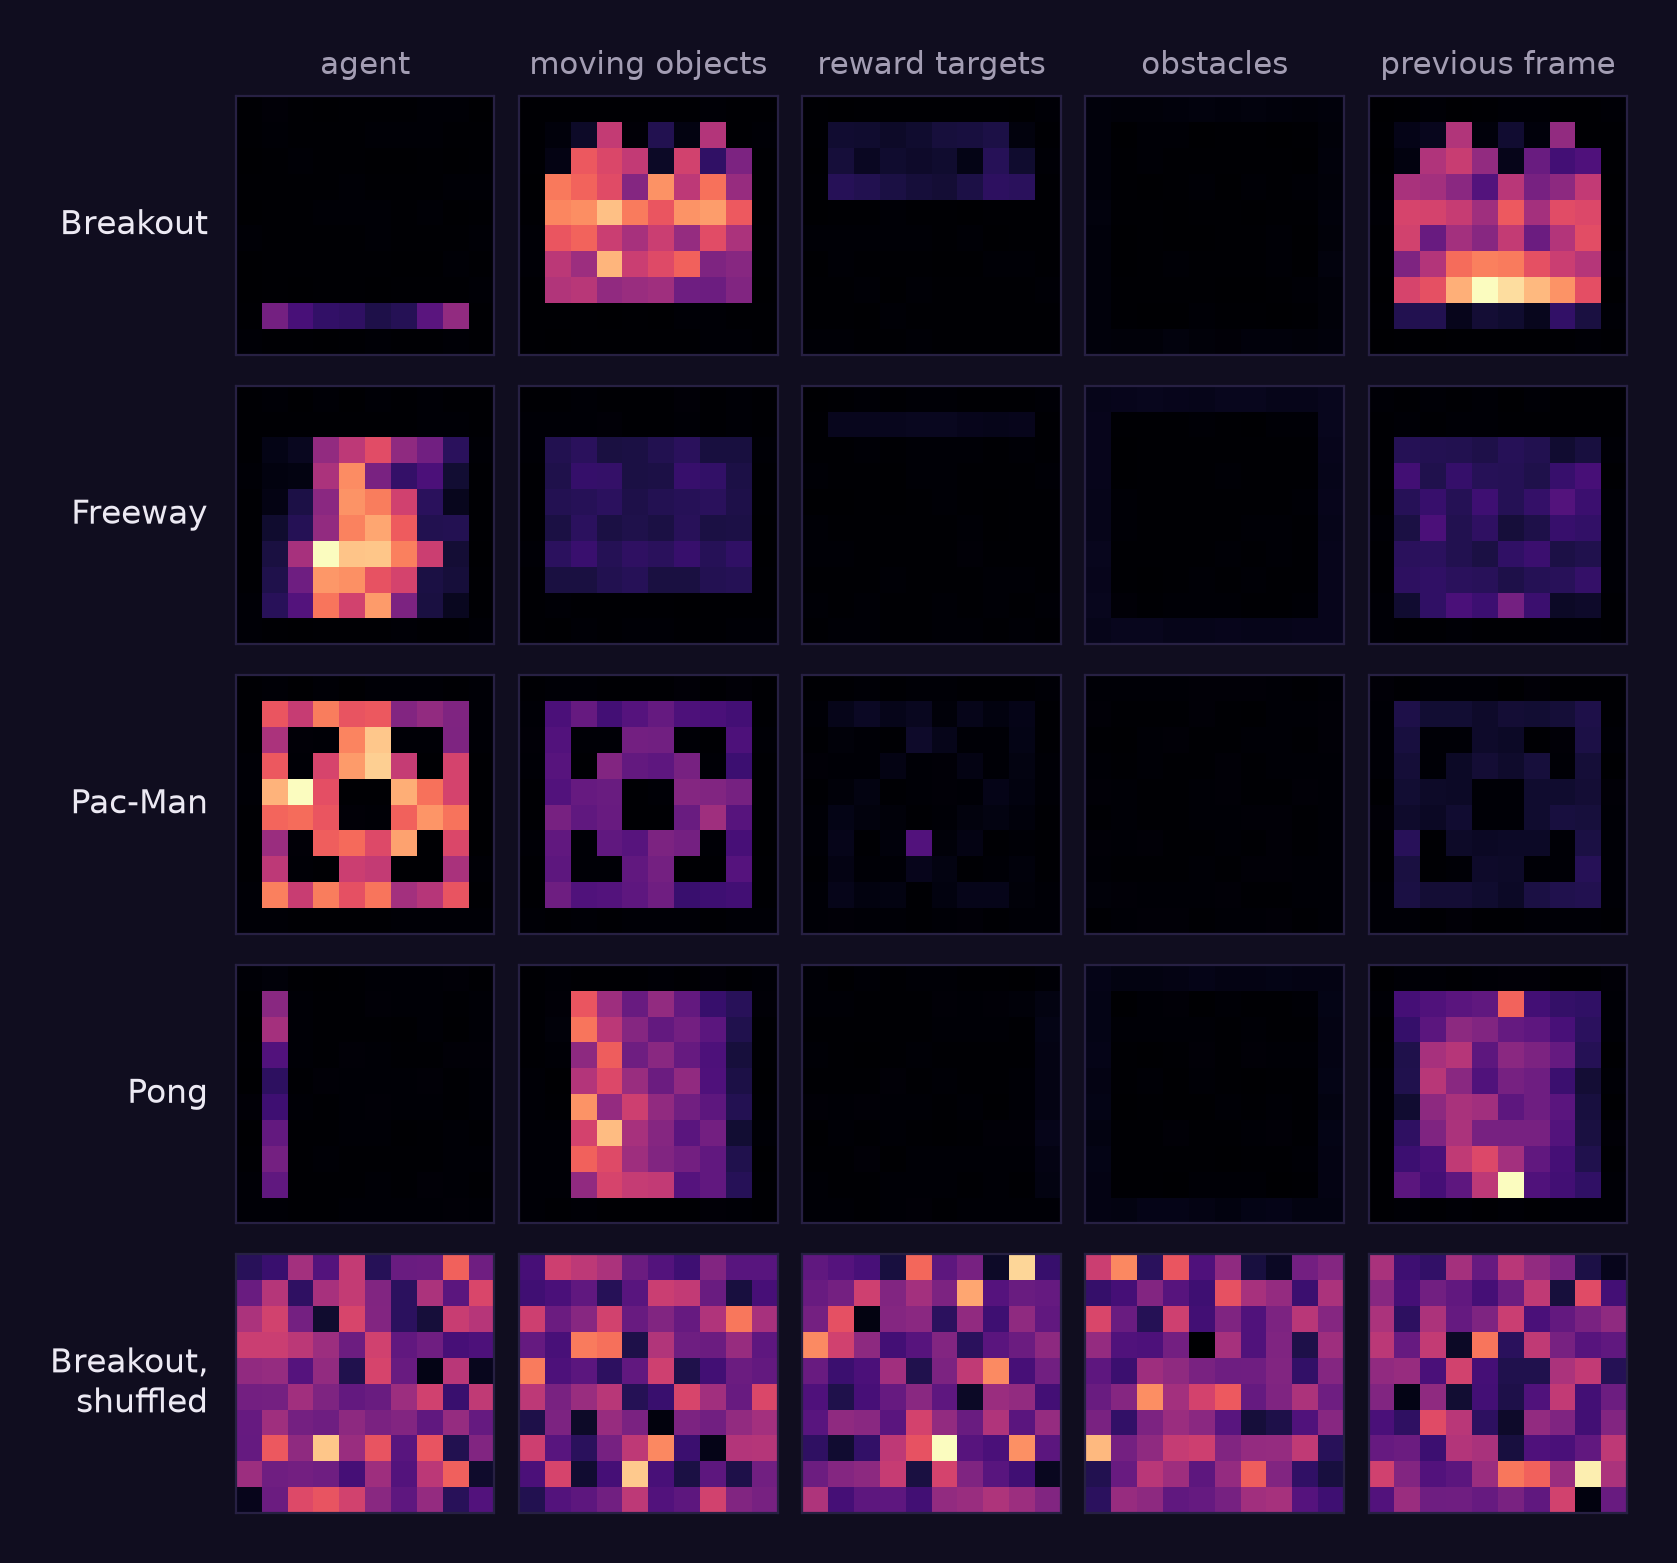
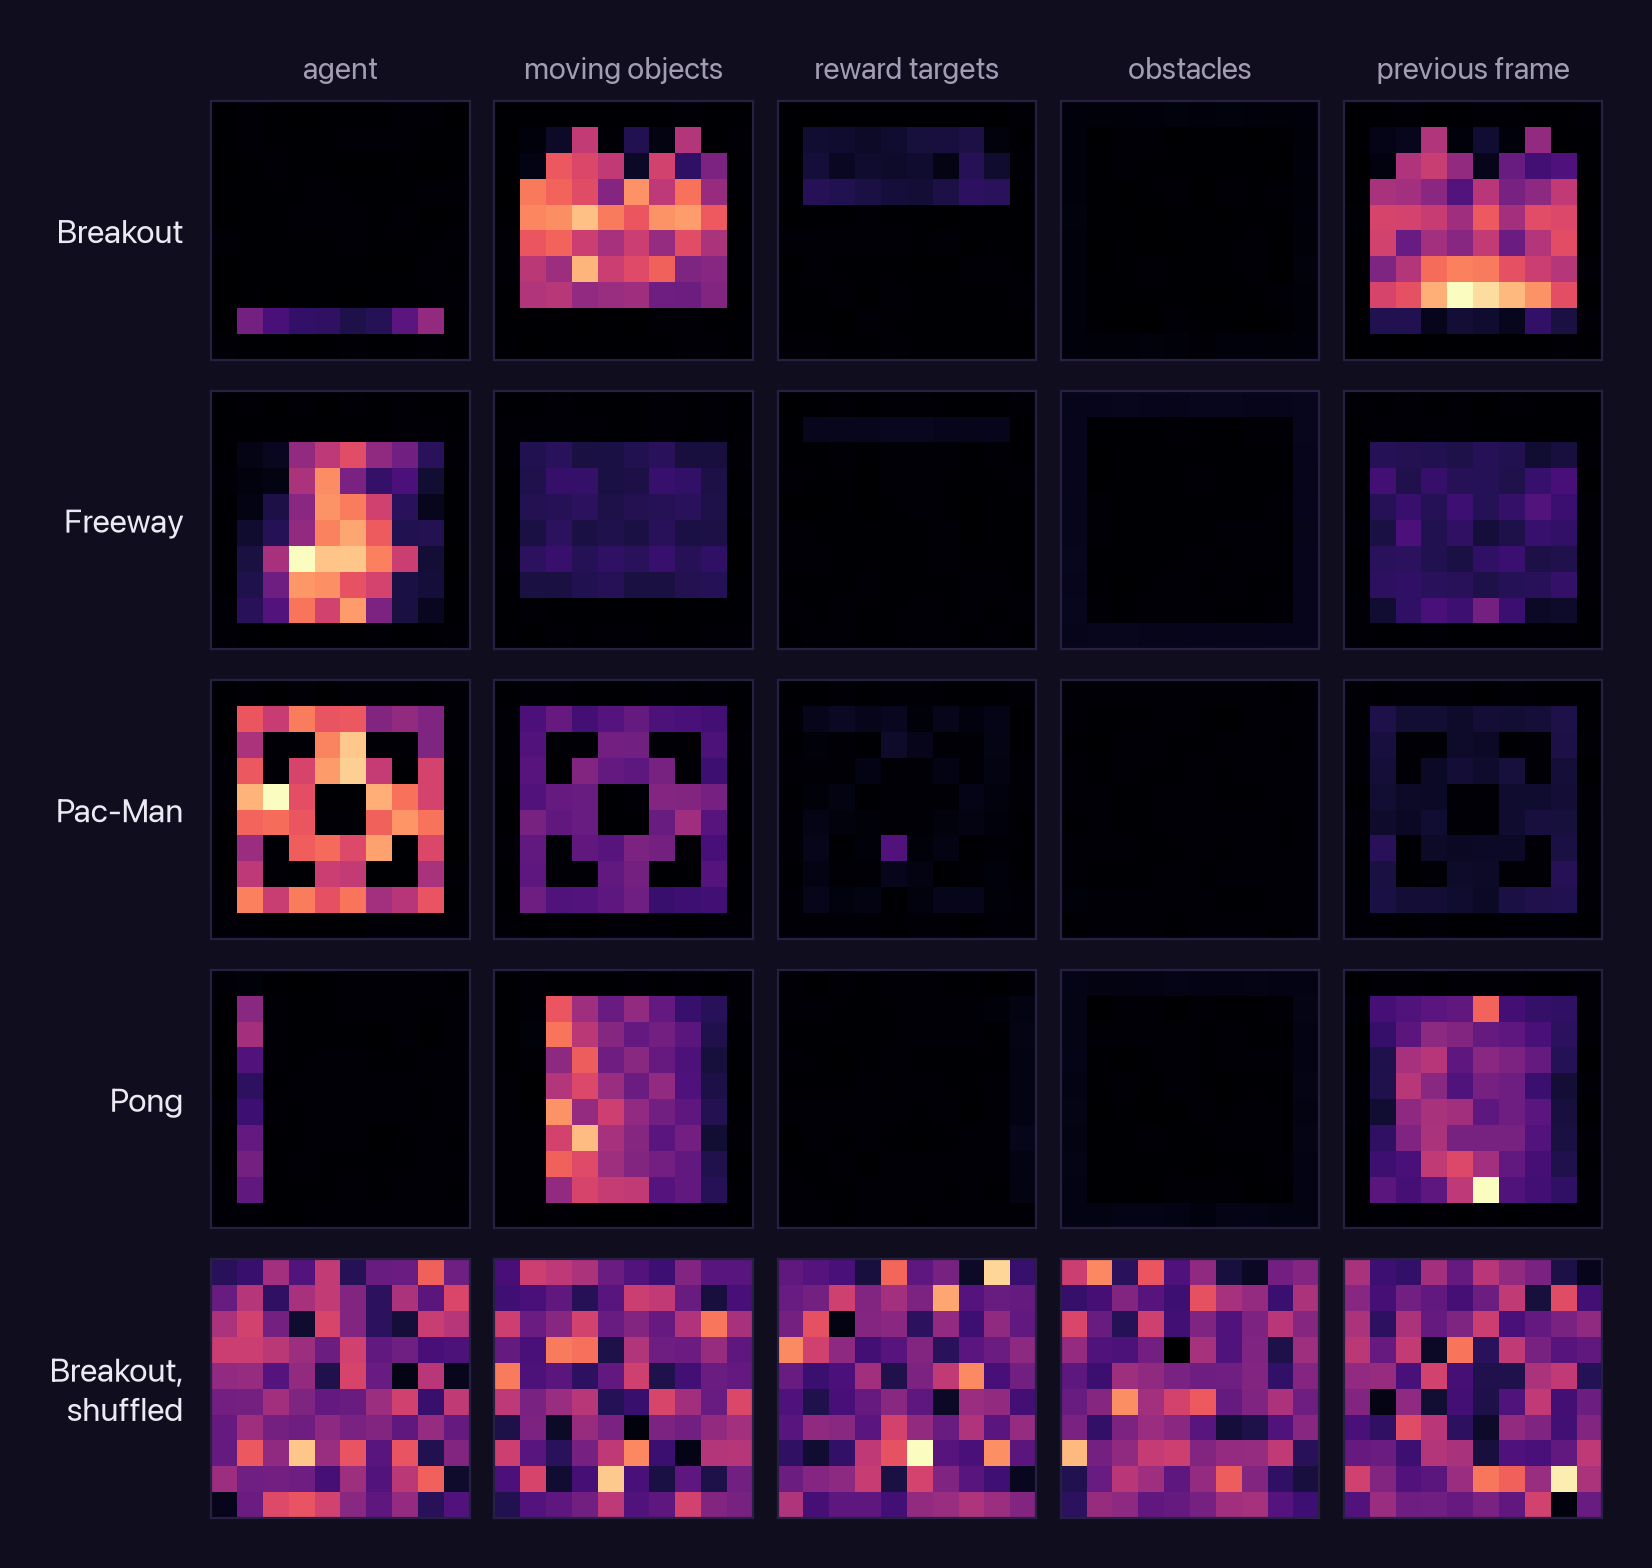
Fix the footprint figure font and show the figures smaller

diff --git a/figures.py b/figures.py
@@ -161,8 +161,10 @@ def footprint_figures():
     matplotlib.use("Agg")
     import matplotlib.pyplot as plt
     from matplotlib import font_manager
-    font_manager.fontManager.addfont("/System/Library/Fonts/SFNS.ttf")
-    plt.rcParams.update({"font.family": "SF Pro", "text.color": FG, "figure.facecolor": BG, "savefig.facecolor": BG})
+    sf = "/System/Library/Fonts/SFNS.ttf"
+    font_manager.fontManager.addfont(sf)
+    plt.rcParams.update({"font.family": font_manager.FontProperties(fname=sf).get_name(), "text.color": FG,
+                         "figure.facecolor": BG, "savefig.facecolor": BG})
 
     def draw(ax, m, lo, hi):
         ax.imshow(m, cmap="magma", vmin=lo, vmax=hi, interpolation="nearest")

diff --git a/README.md b/README.md
@@ -132,9 +132,13 @@ the authors' prompts with a footprint and kept everything else.
 
 The tables are given as numbers; the figures below draw them as maps (brighter is larger, each row on its own scale).
 
-![Experiment 1 footprints](assets/footprint_exp1.png)
+<p align="center">
+  <img src="assets/footprint_exp1.png" alt="Experiment 1 footprints" width="480">
+</p>
 
-![Experiment 2 footprints](assets/footprint_exp2.png)
+<p align="center">
+  <img src="assets/footprint_exp2.png" alt="Experiment 2 footprints" width="360">
+</p>
 
 | | Raw weights (Turing) | Footprint | Footprint, shuffled |
 |---|---|---|---|
